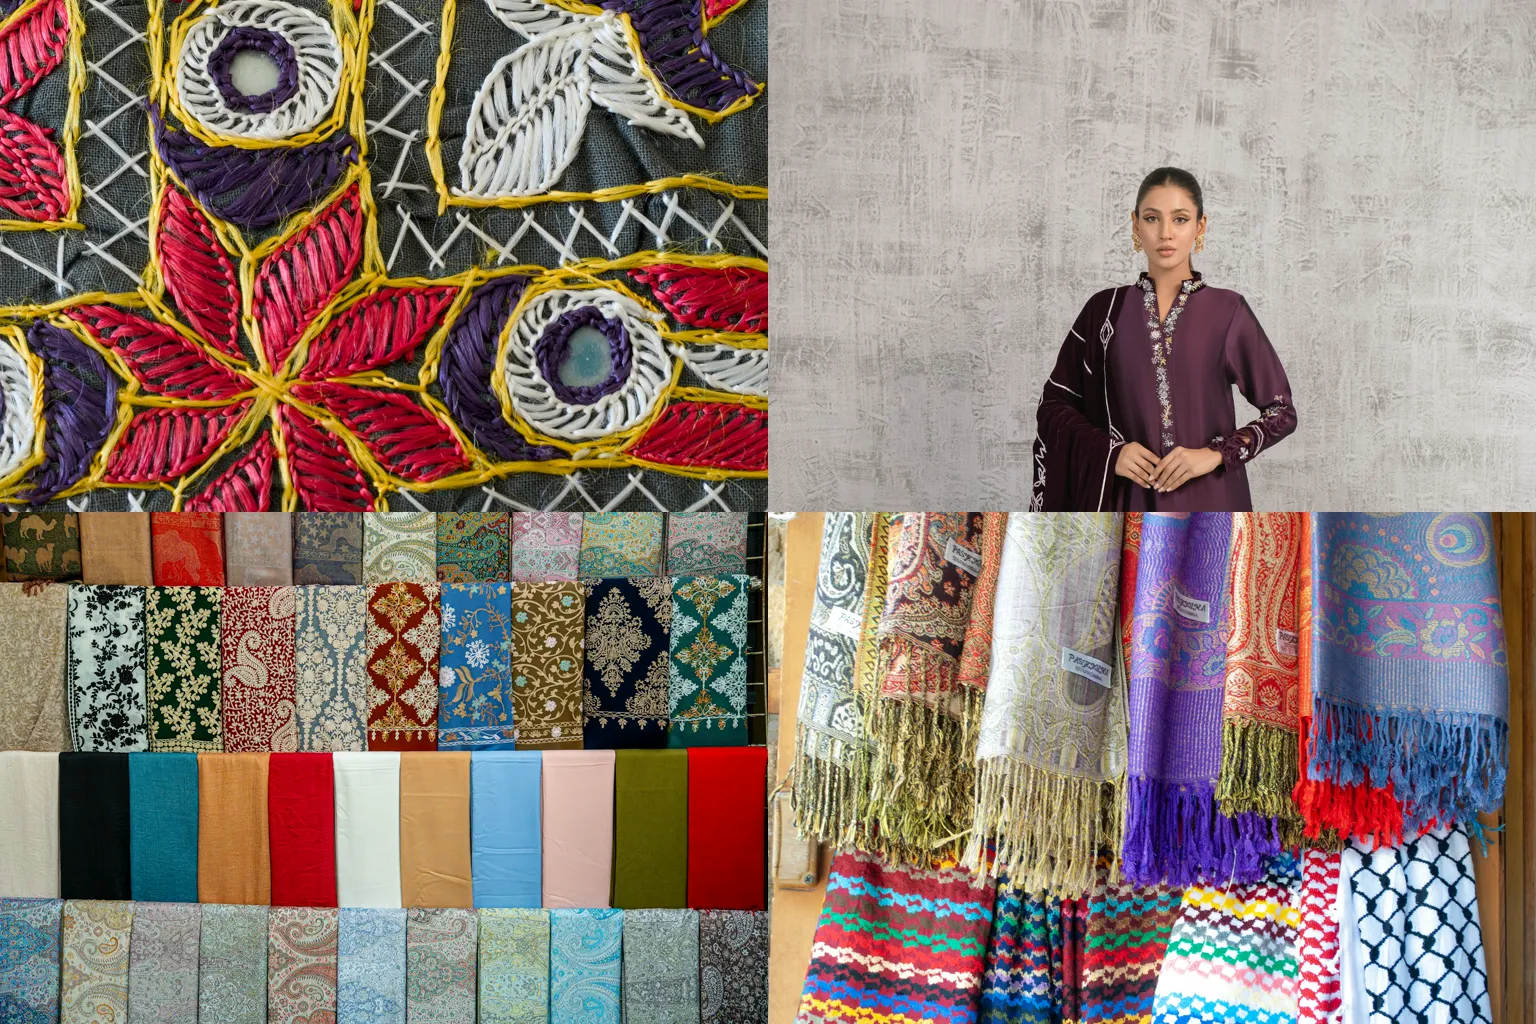
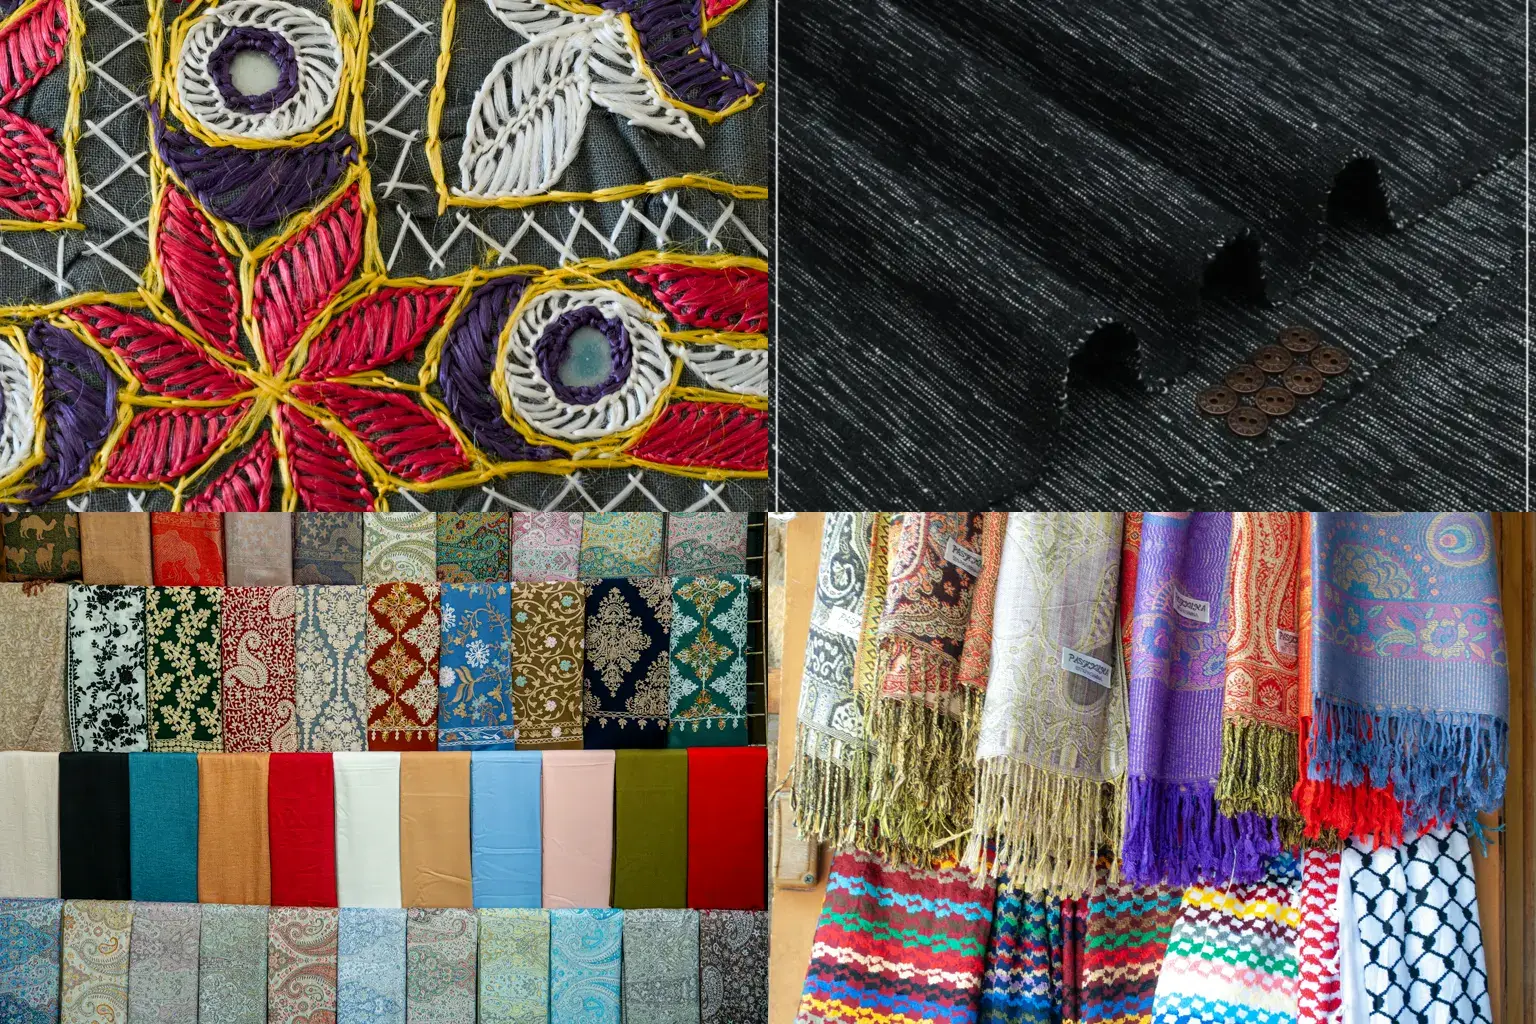
Make the storefront men's only: fabric imagery and archive women's catalogue
Replace the women's hero, story, lifestyle and editorial photos with men's khaddar
fabric compositions, fix links to the archived shawl category, and add a migration
that archives the women's suits and shawls (no deletes) and updates banner copy.

Changed region(s): [[0.5, 0.0, 1.0, 0.5]]

diff --git a/src/pages/client/Home.tsx b/src/pages/client/Home.tsx
@@ -65,13 +65,13 @@ export default function Home() {
             <Link className="btn home-hero-cta" to={hero?.link_url || '/shop'}>
               {hero?.cta_label || 'Explore Collection'} <ArrowUpRight size={18} aria-hidden="true" />
             </Link>
-            <Link className="home-hero-story" to="/shop?category=premium-shawls">Shop Shawls <span aria-hidden="true">↗</span></Link>
+            <Link className="home-hero-story" to="/shop?category=handmade-khaddi">Shop Handmade Khaddi <span aria-hidden="true">↗</span></Link>
           </div>
           <p className="home-hero-signature"><span aria-hidden="true" />Fine fabrics. Delicate embroidery. Made with care.</p>
         </div>
         <figure className="home-hero-figure">
           <div className="home-hero-image">
-            <img src={HERO_FALLBACK} srcSet="/assets/fashion/hero-640.webp 640w, /assets/fashion/hero-960.webp 960w, /assets/fashion/hero.webp 1672w, /assets/fashion/hero-2400.webp 2400w" sizes="(max-width: 700px) calc(100vw - 2.5rem), (max-width: 1000px) 44vw, (max-width: 1792px) 54vw, 58rem" width={1672} height={941} fetchPriority="high" alt="A model in a royal-blue embroidered organza outfit with a sheer dupatta" />
+            <img src={HERO_FALLBACK} srcSet="/assets/fashion/hero-640.webp 640w, /assets/fashion/hero-960.webp 960w, /assets/fashion/hero.webp 1672w, /assets/fashion/hero-2400.webp 2400w" sizes="(max-width: 700px) calc(100vw - 2.5rem), (max-width: 1000px) 44vw, (max-width: 1792px) 54vw, 58rem" width={1672} height={941} fetchPriority="high" alt="Folded handwoven khaddar suit fabrics for men in cream, camel, brown, charcoal and black" />
           </div>
           <figcaption><span>The art of dressing well</span><span>Khaddar Virsa · Feel the Fabric of Tradition</span></figcaption>
         </figure>
@@ -84,7 +84,7 @@ export default function Home() {
           <SectionTitle
             eyebrow="EXPLORE BY STYLE"
             title="Shop by Category"
-            description="Shawls, suits and festive wear for every occasion."
+            description="Handwoven khaddar suit fabrics for men, for every season."
             linkTo="/collections"
           />
           <CategoryTiles categories={categories} />

diff --git a/src/pages/client/OurStory.tsx b/src/pages/client/OurStory.tsx
@@ -62,7 +62,7 @@ export default function OurStory() {
       <section className="section wrap story-foundations">
         <div className="foundation-grid">
           {[
-            ['The Beauty of Fine Fabrics', 'Softness, warmth and drape begin with the fabric behind every piece.', 'foundation-wool', '/shop?category=premium-shawls'],
+            ['The Beauty of Fine Fabrics', 'Softness, warmth and drape begin with the fabric behind every piece.', 'foundation-wool', '/shop?category=handmade-khaddi'],
             ['Time-Honored Craftsmanship', 'Patient hands bring embroidery to life, one considered stitch at a time.', 'foundation-hands', '/shop'],
             ['A Naturally Rich Palette', 'Quiet neutrals and jewel tones create a wardrobe for every occasion.', 'foundation-palette', '/collections'],
             ['Designed for Generations', 'Thoughtful design and gentle care help your favourite piece become part of your story.', 'foundation-rugs', '/fabric-care'],

diff --git a/src/pages/client/Shop.tsx b/src/pages/client/Shop.tsx
@@ -192,8 +192,8 @@ export default function Shop() {
         title="Shop All"
         editorial
         shop
-        eyebrow="SHAWLS & WOMEN'S CLOTHING"
-        description="Premium shawls, embroidered suits and festive wear, crafted with care."
+        eyebrow="MEN'S KHADDAR SUITS"
+        description="Handwoven khaddar and khaddi suit fabrics for men, crafted with care."
         image="/assets/fashion/hero.webp"
       />
 
